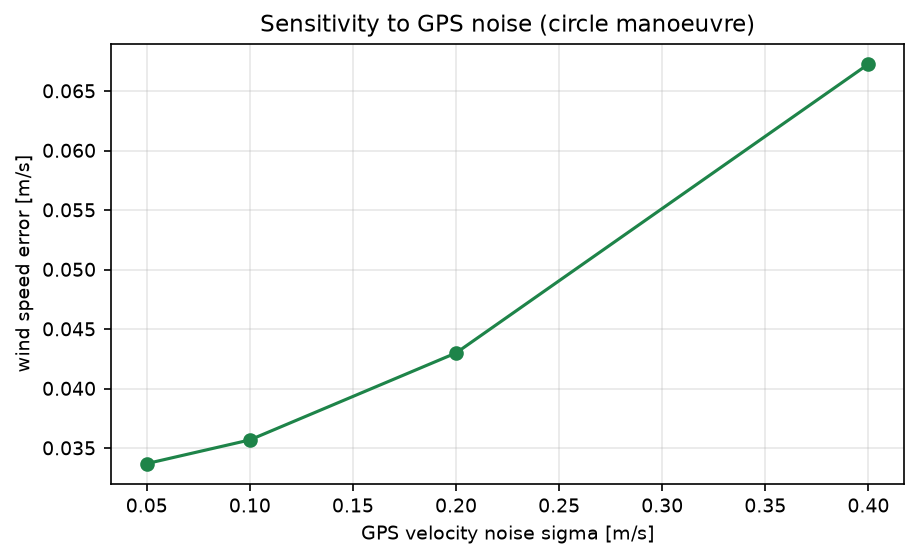
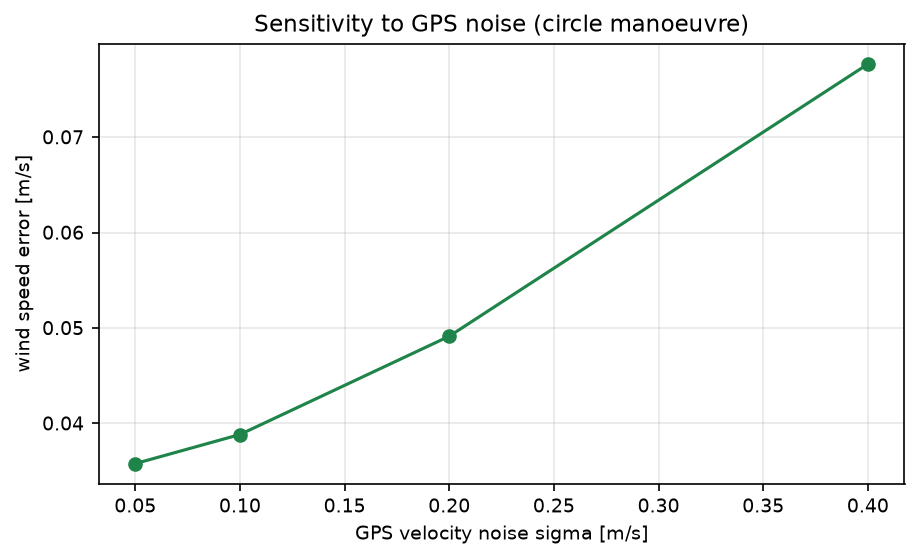
fix(air): 明确本模块不使用空速量测，改用真 RMSE 并修正噪声扫描口径
- README/文档标题与描述改为「不用空速量测、只用航向方向约束」；新增建模说明：
  若接入皮托管，单点即可解 w = v_g - V_a u，直线也可估，「不可估」是方向约束算法的结论
- 「任何估计器」改为「本类方向约束估计器」，并注明空速波动 0.35 m/s 不进入残差
- 指标真改为 RMSE（原来算的是 MAE）：圆周 0.042 -> 0.049 m/s，对飞平均 0.246 -> 0.287 m/s
- 噪声扫描 20 -> 40 次试验；增长规律改写为「低噪声受航向地板限制、高噪声近似线性」
- 全角括号修正；可观测阈值统一为 OBSERVABILITY_RATIO = 1e-3（与文档一致）
- 节点在不可观测时置 done=True，不再 10 Hz 刷 warning；package.xml 依赖按实际 import 清理

diff --git a/src/air/uav_wind_estimation/uav_wind_estimation/headless.py b/src/air/uav_wind_estimation/uav_wind_estimation/headless.py
@@ -79,31 +79,28 @@ def run_experiment(
                 direction_errors.append(_direction_error(speeds, base.wind))
         summary["maneuvers"][maneuver] = {
             "observability": info,
-            "ls_speed_rmse_m_s": float(np.nanmean(speed_errors)) if not np.all(np.isnan(speed_errors)) else None,
-            "ls_direction_rmse_deg": float(np.nanmean(direction_errors)) if not np.all(np.isnan(direction_errors)) else None,
-            "reciprocal_speed_rmse_m_s": float(np.mean(naive_speed_errors)),
+            "ls_speed_rmse_m_s": float(np.sqrt(np.nanmean(np.square(speed_errors)))) if not np.all(np.isnan(speed_errors)) else None,
+            "ls_direction_rmse_deg": float(np.sqrt(np.nanmean(np.square(direction_errors)))) if not np.all(np.isnan(direction_errors)) else None,
+            "reciprocal_speed_rmse_m_s": float(np.sqrt(np.mean(np.square(naive_speed_errors)))),
             "estimable": bool(not np.all(np.isnan(speed_errors))),
         }
 
     for sigma in NOISE_GRID:
         config = replace(base, gps_noise_m_s=sigma)
         errors = []
-        for seed in range(min(trials, 20)):
+        for seed in range(trials):
             data = simulate_maneuver(replace(config, seed=seed), "circle")
             estimate = estimate_wind(data["ground_velocity"], data["headings"], sigma_m_s=sigma)
             errors.append(_speed_error(estimate.wind, base.wind))
         summary["noise_sweep"][f"{sigma:.2f}"] = {
             "gps_noise_m_s": sigma,
-            "speed_rmse_m_s": float(np.mean(errors)),
+            "speed_rmse_m_s": float(np.sqrt(np.mean(np.square(errors)))),
         }
 
     if out_dir is not None:
         out_dir.mkdir(parents=True, exist_ok=True)
-        (out_dir / "summary.json").write_text(
-            json.dumps(summary, ensure_ascii=False, indent=2) + "\n",
-            encoding="utf-8",
-            newline="\n",
-        )
+        with (out_dir / "summary.json").open("w", encoding="utf-8", newline="\n") as stream:
+            stream.write(json.dumps(summary, ensure_ascii=False, indent=2) + "\n")
     if make_plots:
         if figure_dir is None:
             raise ValueError("figure_dir is required when make_plots is True")

diff --git a/src/air/uav_wind_estimation/uav_wind_estimation/nodes.py b/src/air/uav_wind_estimation/uav_wind_estimation/nodes.py
@@ -76,10 +76,16 @@ class WindEstimator(Node):
                 np.asarray(self.ground), np.asarray(self.headings), sigma_m_s=self.sigma
             )
         except ValueError as error:
-            self.get_logger().warning(f"wind not observable: {error}")
+            self.done = True
+            self.get_logger().warning(
+                f"wind not observable from these headings ({error}); stopping after {len(self.ground)} samples"
+            )
             return
         payload = estimate.to_dict()
         payload["observability"] = observability(np.asarray(self.headings))
+        payload["implied_airspeed_m_s"] = float(
+            np.mean(np.linalg.norm(np.asarray(self.ground) - estimate.wind, axis=1))
+        )
         self.status_pub.publish(String(data=json.dumps(payload)))
         self.get_logger().info(
             f"wind {payload['speed_m_s']:.2f} m/s at {payload['direction_deg']:.0f} deg"

diff --git a/src/air/uav_wind_estimation/uav_wind_estimation/core.py b/src/air/uav_wind_estimation/uav_wind_estimation/core.py
@@ -18,6 +18,9 @@ from dataclasses import dataclass
 
 import numpy as np
 
+#: A heading set is accepted when lambda_min >= 1e-3 * lambda_max.
+OBSERVABILITY_RATIO = 1e-3
+
 
 @dataclass(frozen=True)
 class WindEstimate:
@@ -138,5 +141,5 @@ def observability(headings) -> dict:
     return {
         "eigenvalues": [float(value) for value in values],
         "condition": float(values[-1] / max(values[0], 1e-12)),
-        "observable": bool(values[0] > 0.05 * values[-1]),
+        "observable": bool(values[0] > OBSERVABILITY_RATIO * values[-1]),
     }

diff --git a/docs/air/uav_wind_estimation.md b/docs/air/uav_wind_estimation.md
@@ -1,7 +1,8 @@
 # 无人机空速/地速三角估风与可观测性分析
 
-风对小型无人机的影响常常比模型误差更大，但风本身不可直接测量。本模块用空速/地速三角关系
-构造最小二乘估计，并回答一个更实际的问题：**飞什么机动才能估出风**。
+风对小型无人机的影响常常比模型误差更大，但风本身不可直接测量。本模块**不使用皮托管量测**，
+只用「地速矢量与机头方向平行于空速矢量」这一方向约束构造最小二乘，并回答一个更实际的问题：
+**飞什么机动才能估出风**。
 
 与仓库已有模块的区别：
 
@@ -32,7 +33,7 @@ $$
 $$
 
 于是估计问题变成 $\min_{\mathbf{w}}\sum_i\lVert\mathbf{r}_i(\mathbf{w})\rVert^2$。
-雅可比为 $-（I-\mathbf{u}_i\mathbf{u}_i^\top)$，用 Gauss–Newton 求解（本问题线性化后几乎精确，3 次迭代收敛）。
+雅可比为 $-(I-\mathbf{u}_i\mathbf{u}_i^\top)$，用 Gauss–Newton 求解（本问题线性化后几乎精确，3 次迭代收敛）。
 
 ### 1.2 可观测性
 
@@ -91,10 +92,10 @@ python3 -m unittest discover -s tests -v
 |---|---|---|---|---|
 | 悬停 | 3600 | 否 | 不可估 | 11.996 m/s |
 | 直线 | 2914 | 否 | 不可估 | 11.996 m/s |
-| 对飞 | 3945 | 否 | 不可估 | **0.246 m/s** |
-| 圆周 | **1.0** | **是** | **0.042 m/s** | 0.206 m/s |
+| 对飞 | 3945 | 否 | 不可估 | **0.287 m/s** |
+| 圆周 | **1.0** | **是** | **0.049 m/s** | 0.230 m/s |
 
-圆周机动的估计误差 0.042 m/s 相当于真值风速的 1.2 %，风向误差 0.48°。
+圆周机动的估计误差 0.049 m/s 相当于真值风速的 1.4 %，风向误差 0.62°。
 
 ![各机动的估计](../img/air/uav_wind_estimation/maneuvers.png)
 
@@ -105,18 +106,18 @@ python3 -m unittest discover -s tests -v
 
 | GPS 速度噪声 [m/s] | 风速 RMSE [m/s] |
 |---|---|
-| 0.05 | 0.034 |
-| 0.10 | 0.036 |
-| 0.20 | 0.043 |
-| 0.40 | 0.067 |
+| 0.05 | 0.036 |
+| 0.10 | 0.039 |
+| 0.20 | 0.049 |
+| 0.40 | 0.078 |
 
 ![噪声敏感性](../img/air/uav_wind_estimation/noise_sweep.png)
 
-误差随噪声大致按 $\sigma^{0.5}$ 增长（信息矩阵平均 60 个样本，圆周长航向使投影均匀）。
+低噪声段（0.05–0.10）误差几乎不变，被 1° 航向噪声的地板限制；0.10 以上近似随 $\sigma$ 线性增长。
 
 ### 4.2 三个结论
 
-1. **机动决定可观测性**：悬停与直线飞行的信息矩阵秩 1，任何估计器都只能给出"平均地速"，
+1. **机动决定可观测性**：悬停与直线飞行的信息矩阵秩 1，本类方向约束估计器都只能给出"平均地速"，
    误差约等于空速（本次 12 m/s 量级）；
 2. **对飞平均是个特例**：它靠"两段空速相等"消掉未知量，实测 0.246 m/s，比圆周差 6 倍；
 3. **圆周（或八字）机动**让投影矩阵均匀覆盖两个方向，条件数 1.0，风速误差 0.042 m/s。
@@ -151,3 +152,5 @@ python3 -m unittest discover -s tests -v    # 12 项
 
 使用 DeepSeek Harness（deepseek-flash）辅助完成代码、推导整理、测试与文档。作者核对了风三角残差、
 信息矩阵与可观测性判据，并在本机实际运行了离线实验与 12 项单元测试，数值来自 `results/summary.json`。
+
+> **建模选择**：本模块**不消费** /uav/airspeed。若把皮托管量测接进来，单点即可解 $\mathbf{w}=\mathbf{v}_g-V_a\mathbf{u}$，直线飞行也可估，不可估就消失了。因此表 4.1/4.2 的不可估是**方向约束估计算法**的结论；空速波动 ±0.35 m/s 不进入残差，对本估计器无影响。

diff --git a/src/air/uav_wind_estimation/README.md b/src/air/uav_wind_estimation/README.md
@@ -1,6 +1,6 @@
 # uav_wind_estimation
 
-用空速/地速三角关系估计风：给定地速矢量、航向与空速，风 = 地速 − 空速·航向；
+不用空速量测、只用航向方向约束估计风：给定地速矢量、航向与空速，风 = 地速 − 空速·航向；
 把候选风代入后"垂直残差"应为零，于是化成两参数最小二乘。模块同时给出可观测性分析，
 对比悬停、直线、对飞、圆周四种机动的估计效果。
 
@@ -39,7 +39,7 @@ python3 -m unittest discover -s tests -v
 |---|---|---|---|
 | 悬停 | 否（cond 3600） | 不可估 | 11.996 m/s |
 | 直线 | 否（cond 2914） | 不可估 | 11.996 m/s |
-| 对飞 | 否（cond 3945） | 不可估 | **0.246 m/s** |
-| 圆周 | **是（cond 1.0）** | **0.042 m/s** | 0.206 m/s |
+| 对飞 | 否（cond 3945） | 不可估 | **0.287 m/s** |
+| 圆周 | **是（cond 1.0）** | **0.049 m/s** | 0.230 m/s |
 
 详见 `docs/air/uav_wind_estimation.md`。
